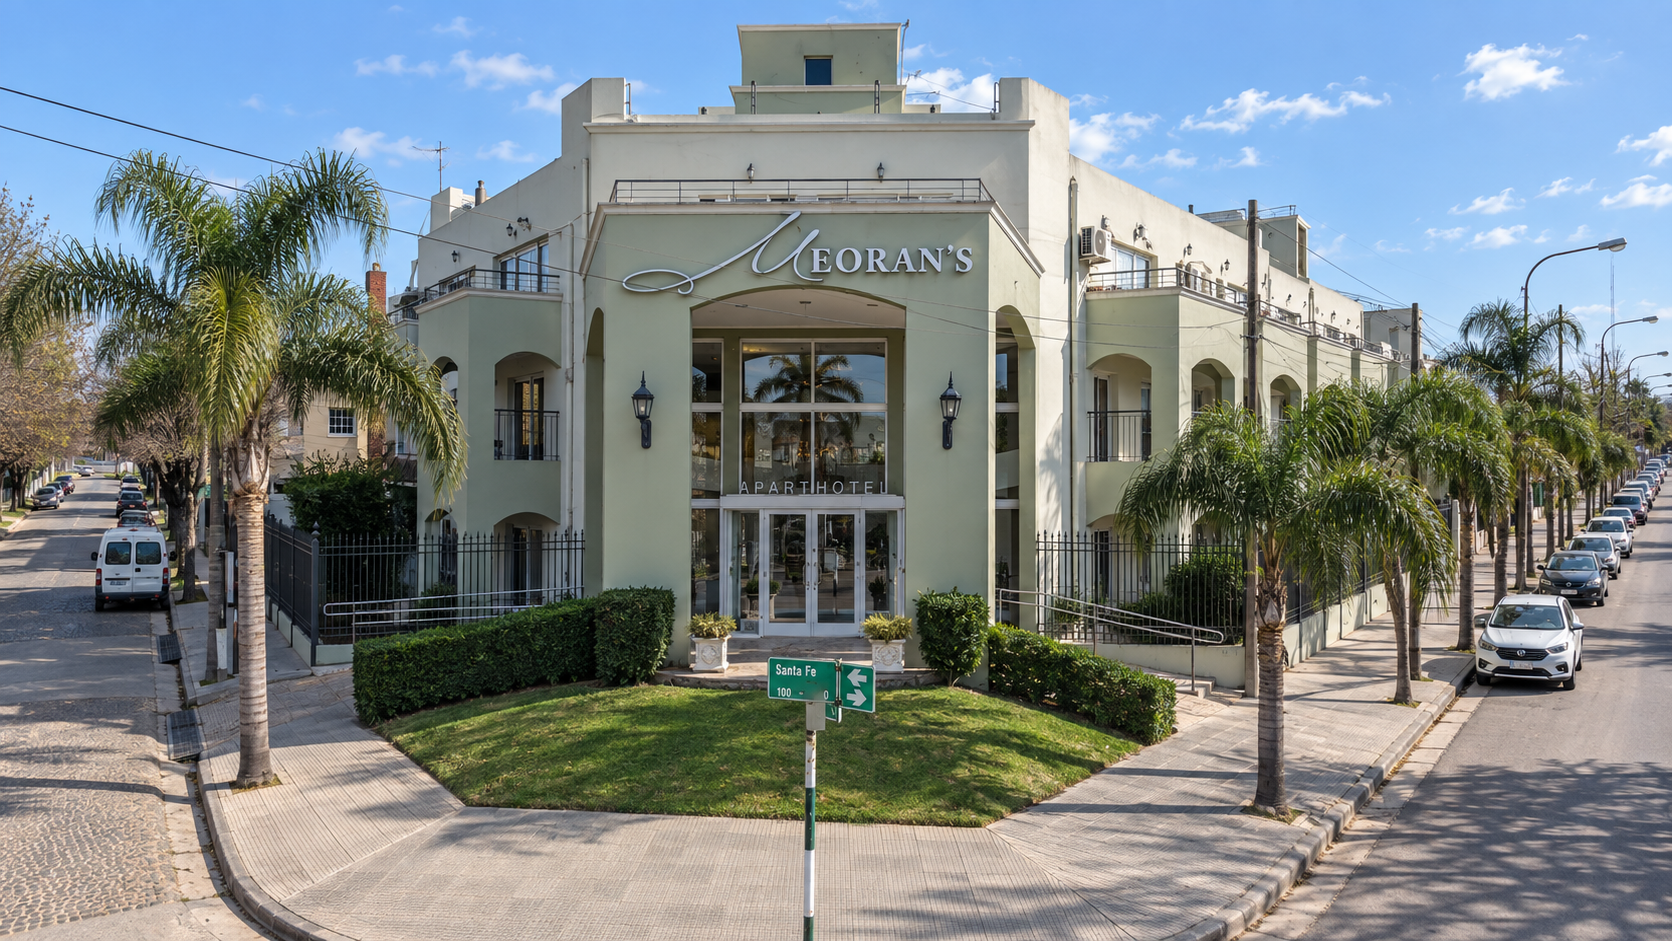
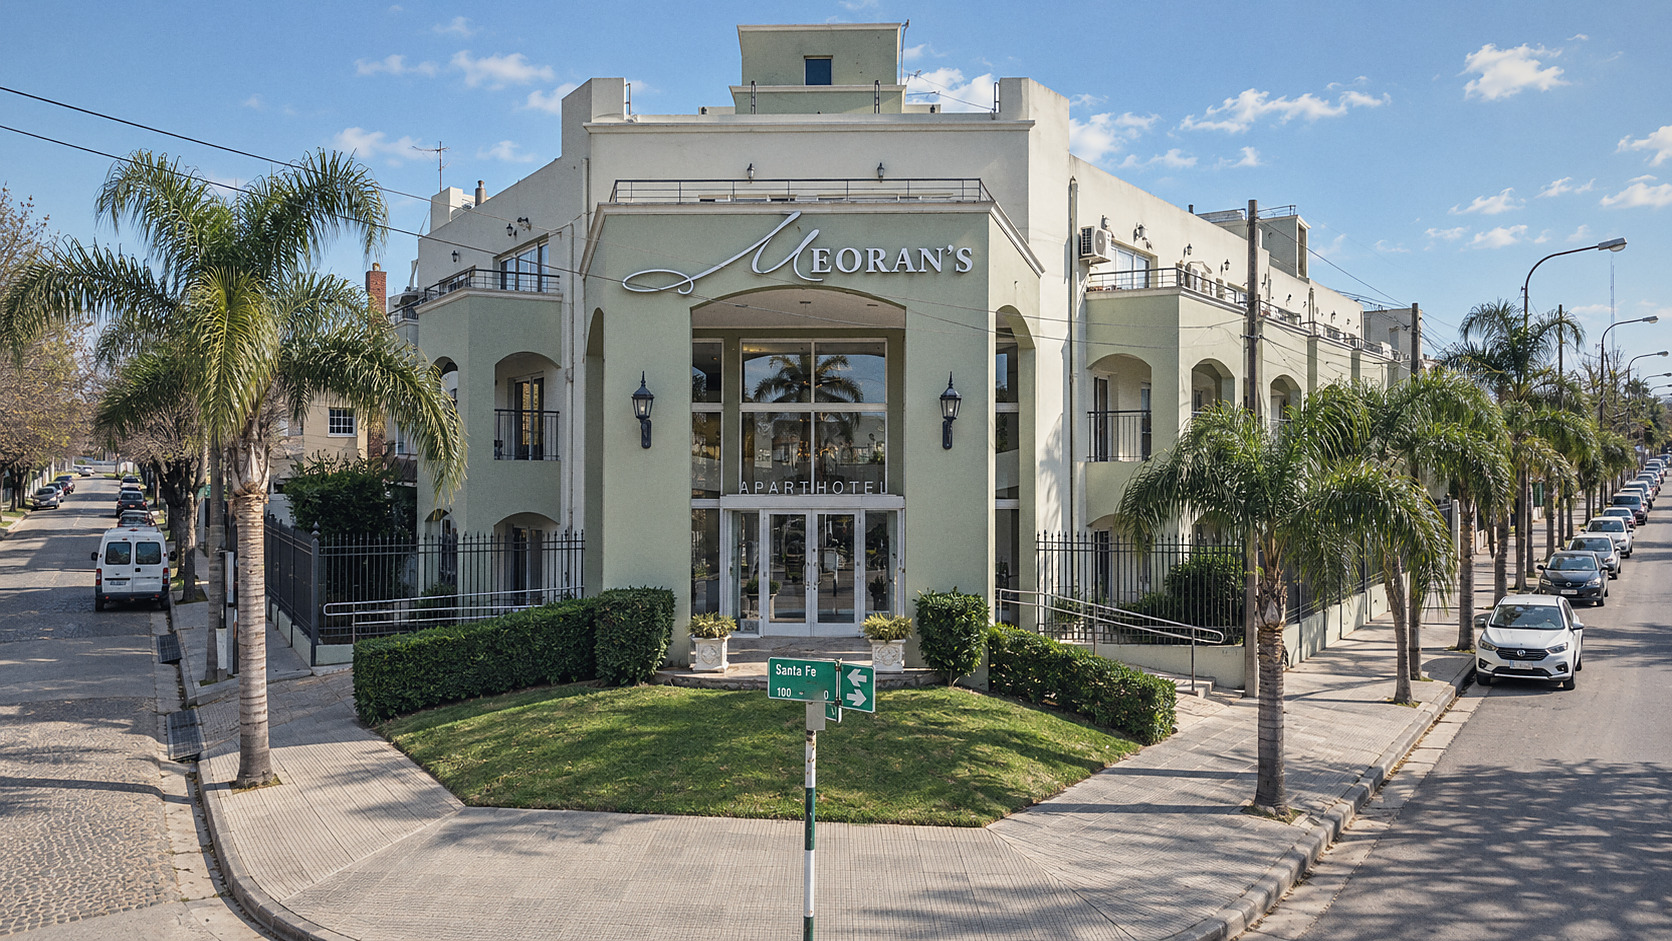
Use the hotel's own facade photo for the location section
Replaces the turismoentrerios.com hotlink with a local copy, graded
with tools/grade-image.py (2.7 MB PNG -> 696 KB JPG). Five of six
section images now come from the repo instead of hotlinked domains.

The menu overlay still points at the same turismoentrerios.com URL for
its background photo -- worth swapping to this same local file too.

Claude-Session: https://claude.ai/code/session_019A7BNkea1KhgyQs9dBmW83

diff --git a/index.html b/index.html
@@ -975,7 +975,7 @@
     <!-- 08 LOCATION / "EVENTS" visual rhythm -->
     <section class="scene location-scene with-parallax" id="ubicacion">
       <div class="background-wrapper">
-        <img src="https://www.turismoentrerios.com/util/img/prestadores/2635.jpg" alt="Fachada real de Meoran's Apart Hotel">
+        <img src="assets/img/location.jpg" alt="Fachada de Meoran's Apart Hotel, calle Santa Fe">
       </div>
 
       <article class="editorial-card location-card">
